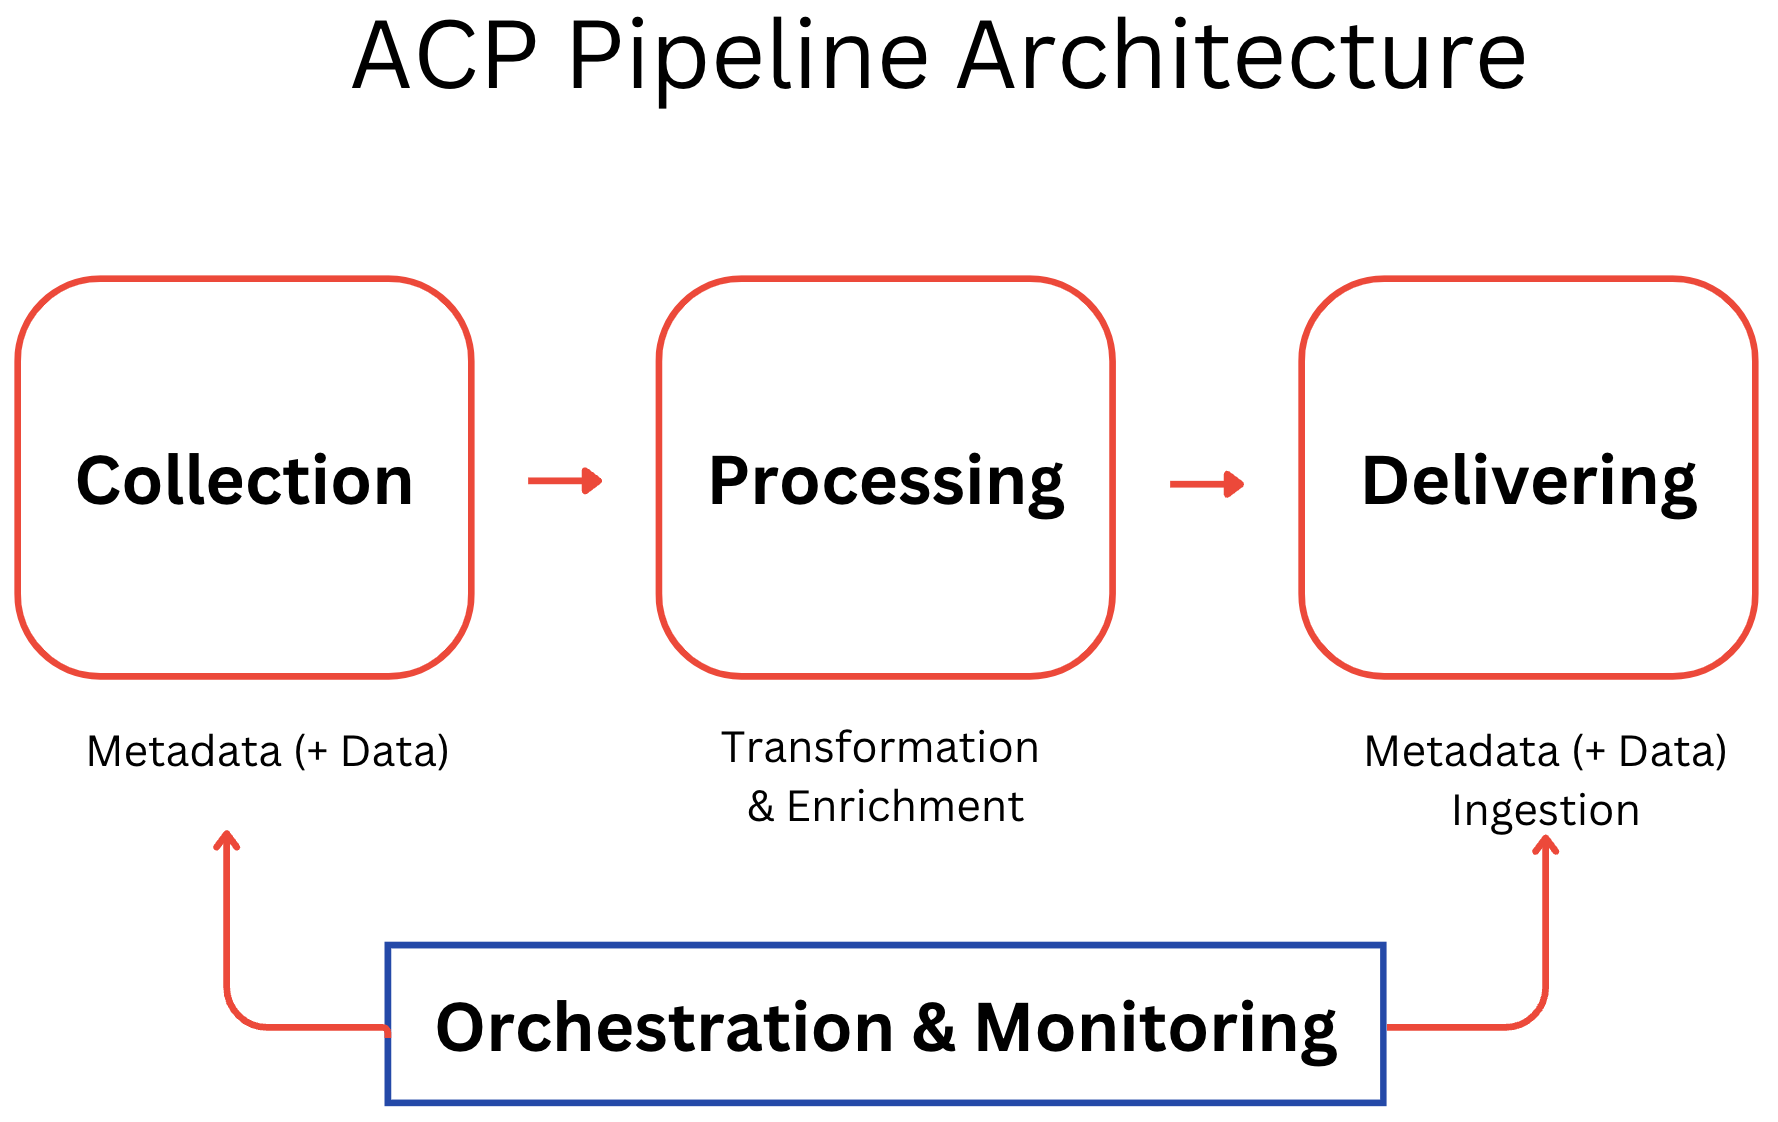
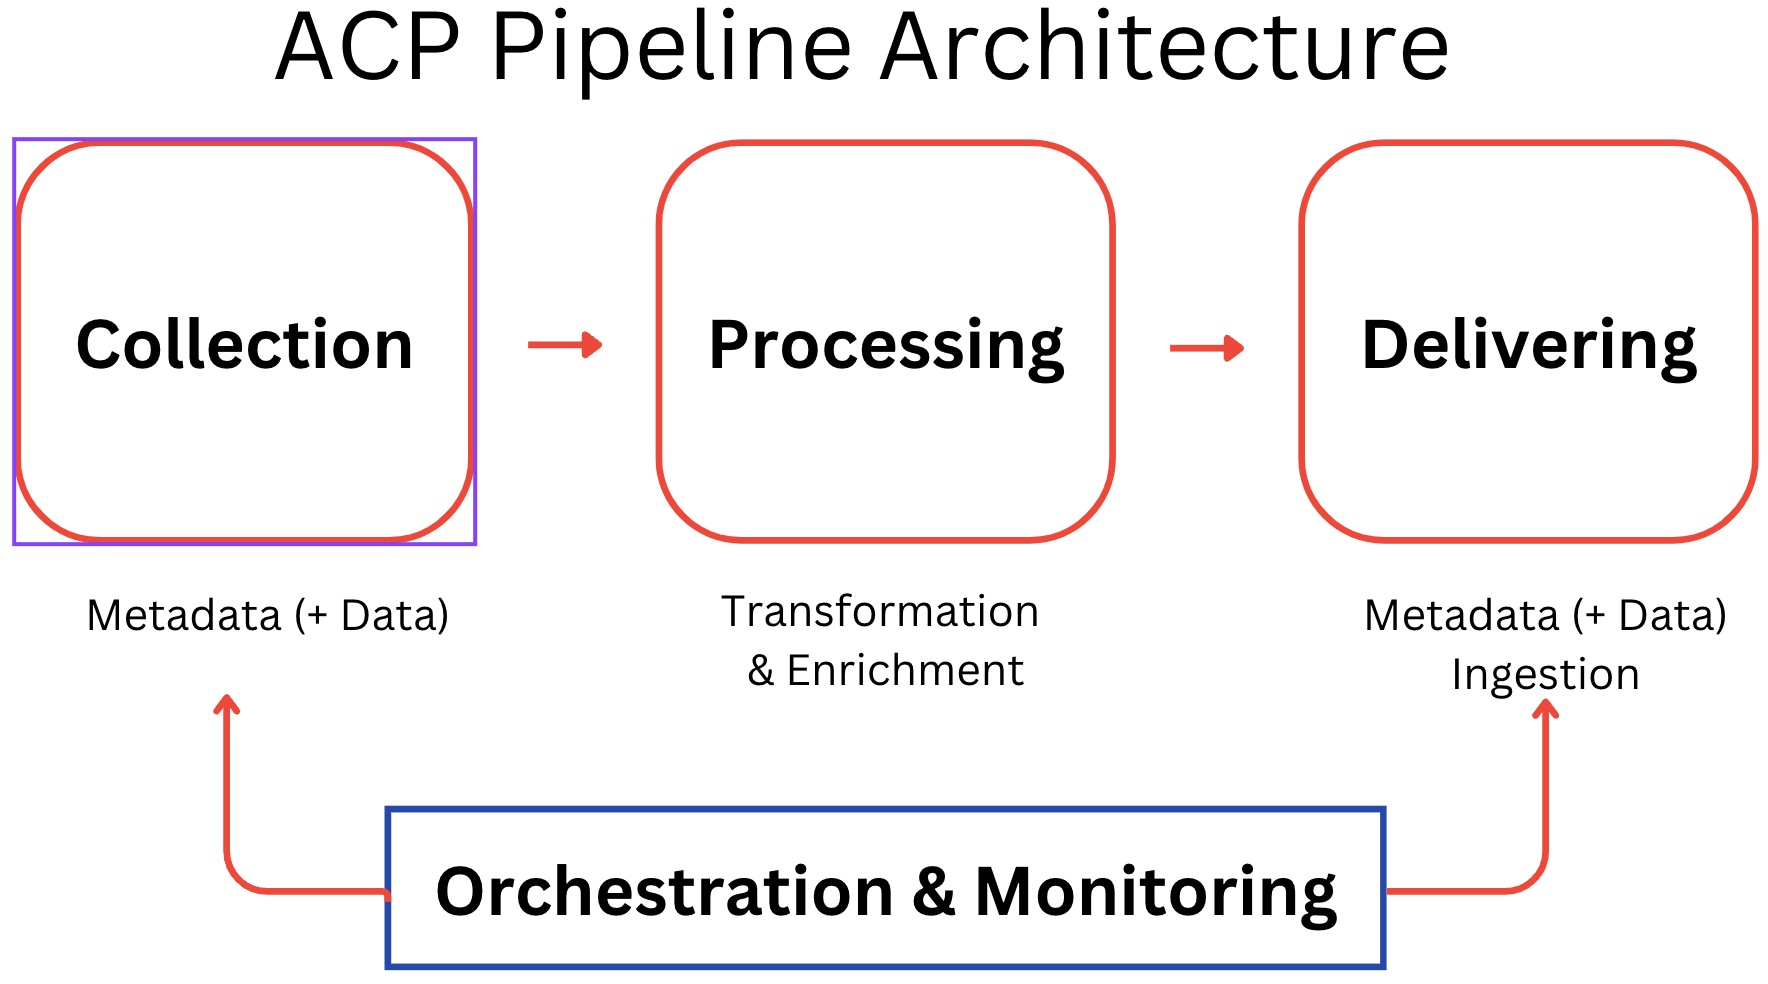
Add Data pipeline

diff --git a/README.md b/README.md
@@ -29,6 +29,12 @@ The curation process is dynamically adapted to each repository target as specifi
 
 Hooks allow for advanced customization and extend the functionality of ACP by enabling users to create tailored transformation logic for complex repository requirements.
 
+Hooks are ideal in scenarios where:
+- Standard Transformers cannot meet the repository's specific requirements.
+- Custom logic is needed to handle unique data formats, structures, or validations.
+- JSON-based metadata manipulation is required.
+- Alternative XSLT stylesheets are necessary for metadata transformation.
+
 By centralizing and automating these crucial components, ACP provides an efficient, scalable, and adaptable solution for deposit package generation. This design makes it significantly easier for users to manage, curate, and deliver content that meets precise repository standards, promoting streamlined workflows and enhancing the quality of digital content management.
 
 ## Integrating [OpenTelemetry](https://opentelemetry.io/docs/what-is-opentelemetry/) Protocol (OTLP) in ACP
